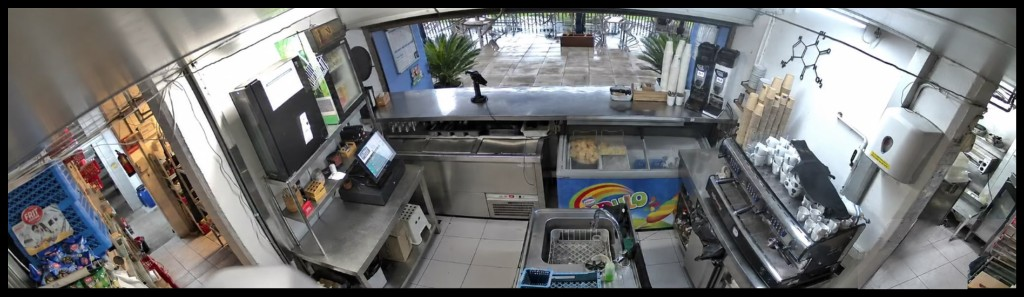
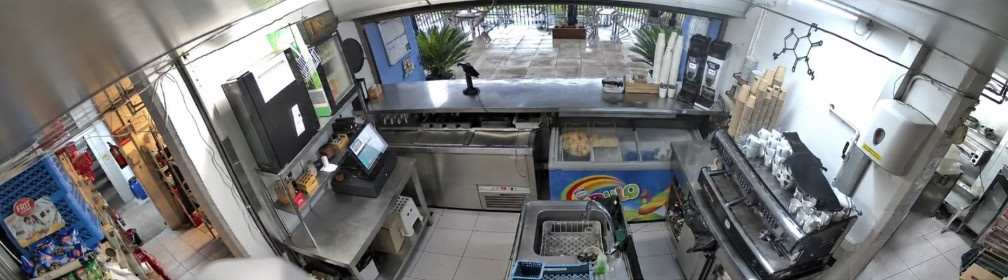
fff

diff --git a/src/components/dashboards/StaffClockCameraFovNotice.tsx b/src/components/dashboards/StaffClockCameraFovNotice.tsx
@@ -22,7 +22,7 @@ export function StaffClockCameraFovNotice() {
         <div data-element="camera-fov-notice" className="flex min-h-0 w-full min-w-0 flex-col gap-ds-4">
             <div data-element="camera-fov-image" className="w-full shrink-0">
                 <img
-                    src={CAMERA_FOV_NOTICE_IMAGE_SRC}
+                    src={`${CAMERA_FOV_NOTICE_IMAGE_SRC}?v=2`}
                     alt="Campo de visión actual de la cámara de seguridad"
                     width={CAMERA_FOV_NOTICE_IMAGE_WIDTH}
                     height={CAMERA_FOV_NOTICE_IMAGE_HEIGHT}

diff --git a/src/lib/staff/camera-fov-notice.ts b/src/lib/staff/camera-fov-notice.ts
@@ -8,8 +8,8 @@ export const CAMERA_FOV_NOTICE_ACKED_AT_COLUMN = 'camera_fov_notice_acked_at' as
 
 export const CAMERA_FOV_NOTICE_IMAGE_SRC = '/docs/manuals/camara-seguridad.jpg';
 
-export const CAMERA_FOV_NOTICE_IMAGE_WIDTH = 1024;
-export const CAMERA_FOV_NOTICE_IMAGE_HEIGHT = 297;
+export const CAMERA_FOV_NOTICE_IMAGE_WIDTH = 1008;
+export const CAMERA_FOV_NOTICE_IMAGE_HEIGHT = 280;
 
 export const CAMERA_FOV_NOTICE_TITLE =
     'Actualización del campo de visión de la cámara de seguridad';
